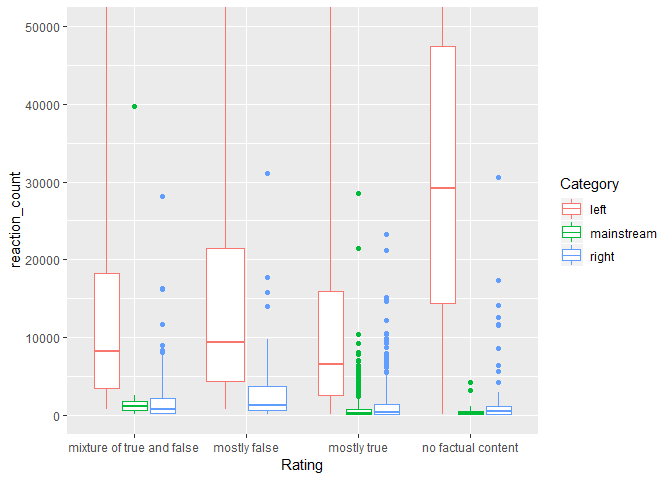
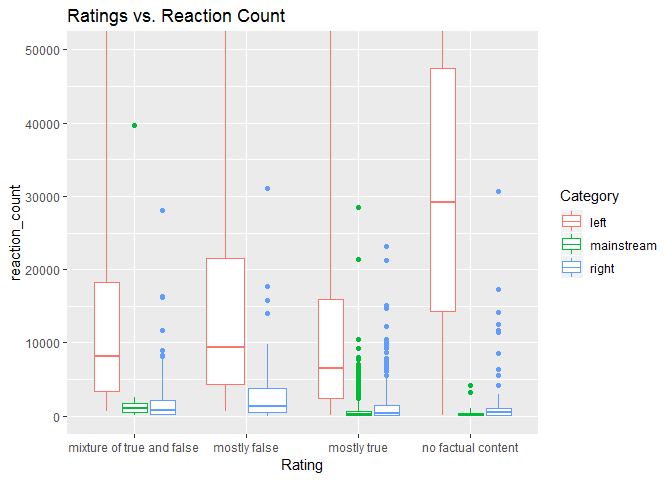
Titles added

diff --git a/facebook_factcheck.md b/facebook_factcheck.md
@@ -140,7 +140,10 @@ fb[which(is.na(fb$comment_count)),"comment_count"]<- 131
 
 ggplot(fb,aes(x=Category, fill= Rating))+
   geom_bar()+
-  scale_y_continuous(labels = scales::percent)
+  geom_text(aes( label = scales::percent(..prop..),
+                   y= ..prop.. ), stat= "count", vjust = -.5) +
+  scale_y_continuous()+
+  ggtitle( "Facebook Posts Content Ratings")
 ```
 
 ![](facebook_factcheck_files/figure-markdown_github/unnamed-chunk-2-1.png)
@@ -150,7 +153,8 @@ Total_count<- (fb$share_count+ fb$reaction_count+fb$comment_count)
 
 ggplot(fb,aes(x=Rating,y= reaction_count,color= Category))+
   geom_boxplot(coef=3, fun = median)+
-  coord_cartesian(ylim=c(0,50000))
+  coord_cartesian(ylim=c(0,50000))+
+  ggtitle("Ratings vs. Reaction Count")
 ```
 
     ## Warning: Ignoring unknown parameters: fun
@@ -160,7 +164,8 @@ ggplot(fb,aes(x=Rating,y= reaction_count,color= Category))+
 ``` r
 ggplot(fb,aes(x=Rating,y= share_count,color= Category))+
   geom_boxplot(coef=3, fun = median)+
-  coord_cartesian(ylim=c(0,50000))
+  coord_cartesian(ylim=c(0,50000))+
+  ggtitle("Ratings vs. Share Count")
 ```
 
     ## Warning: Ignoring unknown parameters: fun
@@ -170,7 +175,8 @@ ggplot(fb,aes(x=Rating,y= share_count,color= Category))+
 ``` r
 ggplot(fb,aes(x=Rating,y= comment_count,color= Category))+
   geom_boxplot(coef=3, fun = median)+
-  coord_cartesian(ylim=c(0,50000))
+  coord_cartesian(ylim=c(0,50000))+
+  ggtitle("Ratings vs. Comment Count")
 ```
 
     ## Warning: Ignoring unknown parameters: fun
@@ -179,7 +185,8 @@ ggplot(fb,aes(x=Rating,y= comment_count,color= Category))+
 
 ``` r
 ggplot(fb, aes(x=Date.Published, y= Total_count))+
-  geom_point()
+  geom_point()+
+  ggtitle("Total Counts on Posted Dates")
 ```
 
 ![](facebook_factcheck_files/figure-markdown_github/unnamed-chunk-2-5.png)
@@ -245,19 +252,18 @@ str(fb)
 
 ``` r
 ggplot(fb, aes(x=Page,fill= Rating))+
+  guides(fill=FALSE)+
   geom_bar()+
-  coord_flip()
+  coord_flip()+
+  ggtitle("Truth Ratings for Indivdual Pages")
 ```
 
 ![](facebook_factcheck_files/figure-markdown_github/unnamed-chunk-3-1.png)
 
 ``` r
-#ggplot(fb,aes(Total_count,group= reaction))+
-  #stat_boxplot()
-
-
 ggplot(fb,aes(x=Post.Type,y= reaction_count, col=Rating))+
-  geom_point(position = "jitter")
+  geom_point(position = "jitter")+
+  ggtitle("Truth Ratings Based on Post Type")
 ```
 
 ![](facebook_factcheck_files/figure-markdown_github/unnamed-chunk-3-2.png)
@@ -265,7 +271,8 @@ ggplot(fb,aes(x=Post.Type,y= reaction_count, col=Rating))+
 ``` r
 ggplot(data=fb)+
   geom_point(mapping= aes(x=Post.Type, y= Total_count, position= "dodge"))+
-  facet_wrap( ~ Rating,nrow = 2)
+  facet_wrap( ~ Rating,nrow = 2)+
+  ggtitle("Truth Ratings for Post Types")
 ```
 
     ## Warning: Ignoring unknown aesthetics: position
@@ -280,7 +287,9 @@ ggplot(fb,aes(x=Rating, group=Category))+
     labs(y = "Percent", fill="Rating") +
     facet_grid(~Category) +
     scale_y_continuous(labels = scales::percent)+
-  coord_flip()
+  coord_flip()+
+  guides(fill=FALSE)+
+  ggtitle("Percent of Truth Ratings Based on Partisain Leaning")
 ```
 
 ![](facebook_factcheck_files/figure-markdown_github/unnamed-chunk-4-1.png)
@@ -290,7 +299,8 @@ ggplot(fb, aes(Date.Published, group = Category)) +
           geom_bar(aes(y = ..prop..), stat="count") + 
           scale_y_continuous(labels=scales::percent) +
           ylab("relative frequencies") +
-          facet_grid(Category~.)
+          facet_grid(Category~.)+
+  ggtitle("Activity of Posts")
 ```
 
 ![](facebook_factcheck_files/figure-markdown_github/unnamed-chunk-4-2.png)
@@ -300,7 +310,8 @@ ggplot(fb)+
   geom_point(mapping = aes(x= reaction_count,y= Total_count))+
   facet_grid(.~Rating)+
   xlim(0,50000)+
-  ylim(0,50000)
+  ylim(0,50000)+
+  ggtitle("Reactions of the pages Based On Truth")
 ```
 
     ## Warning: Removed 128 rows containing missing values (geom_point).
